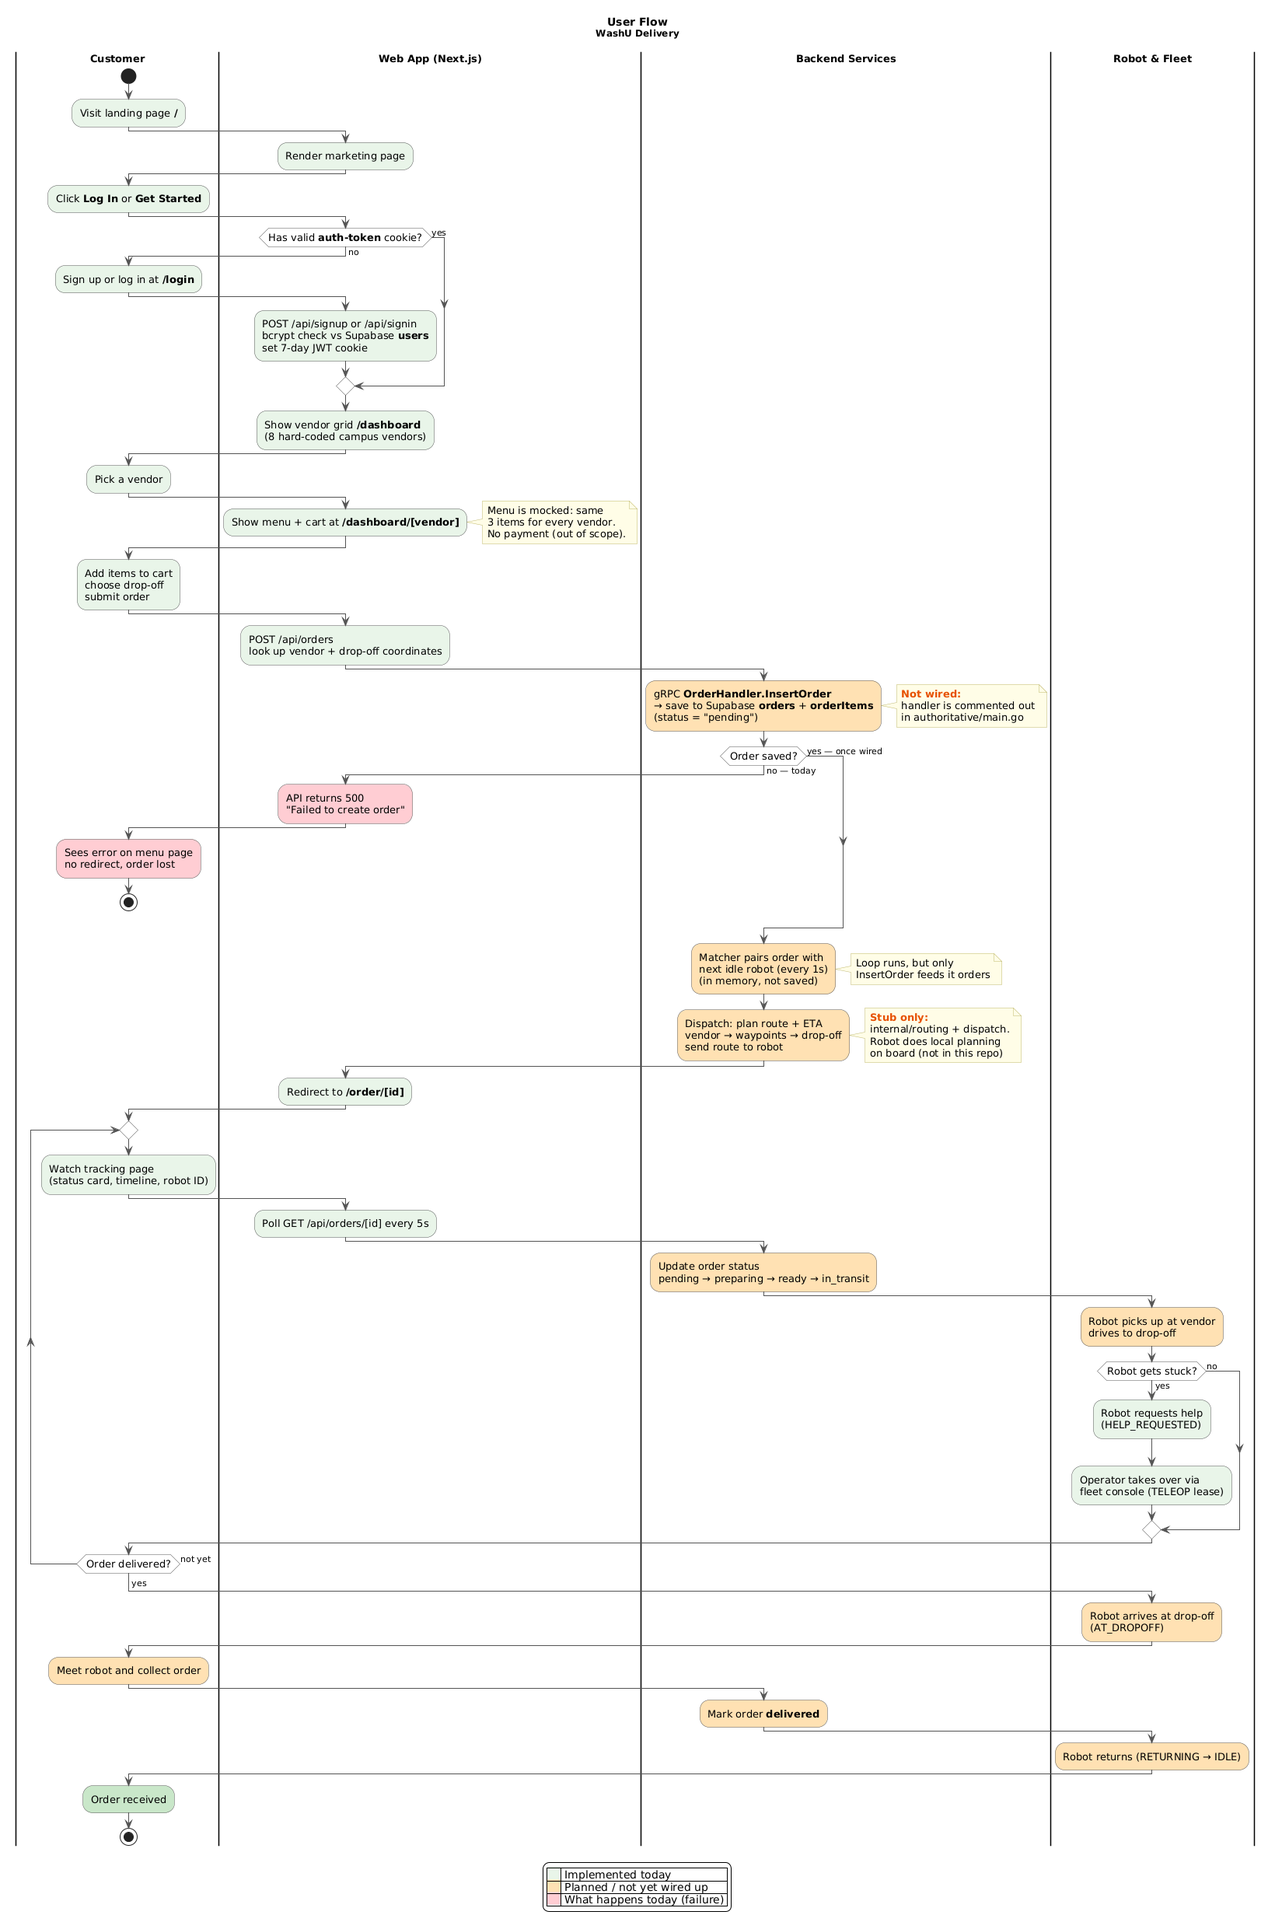
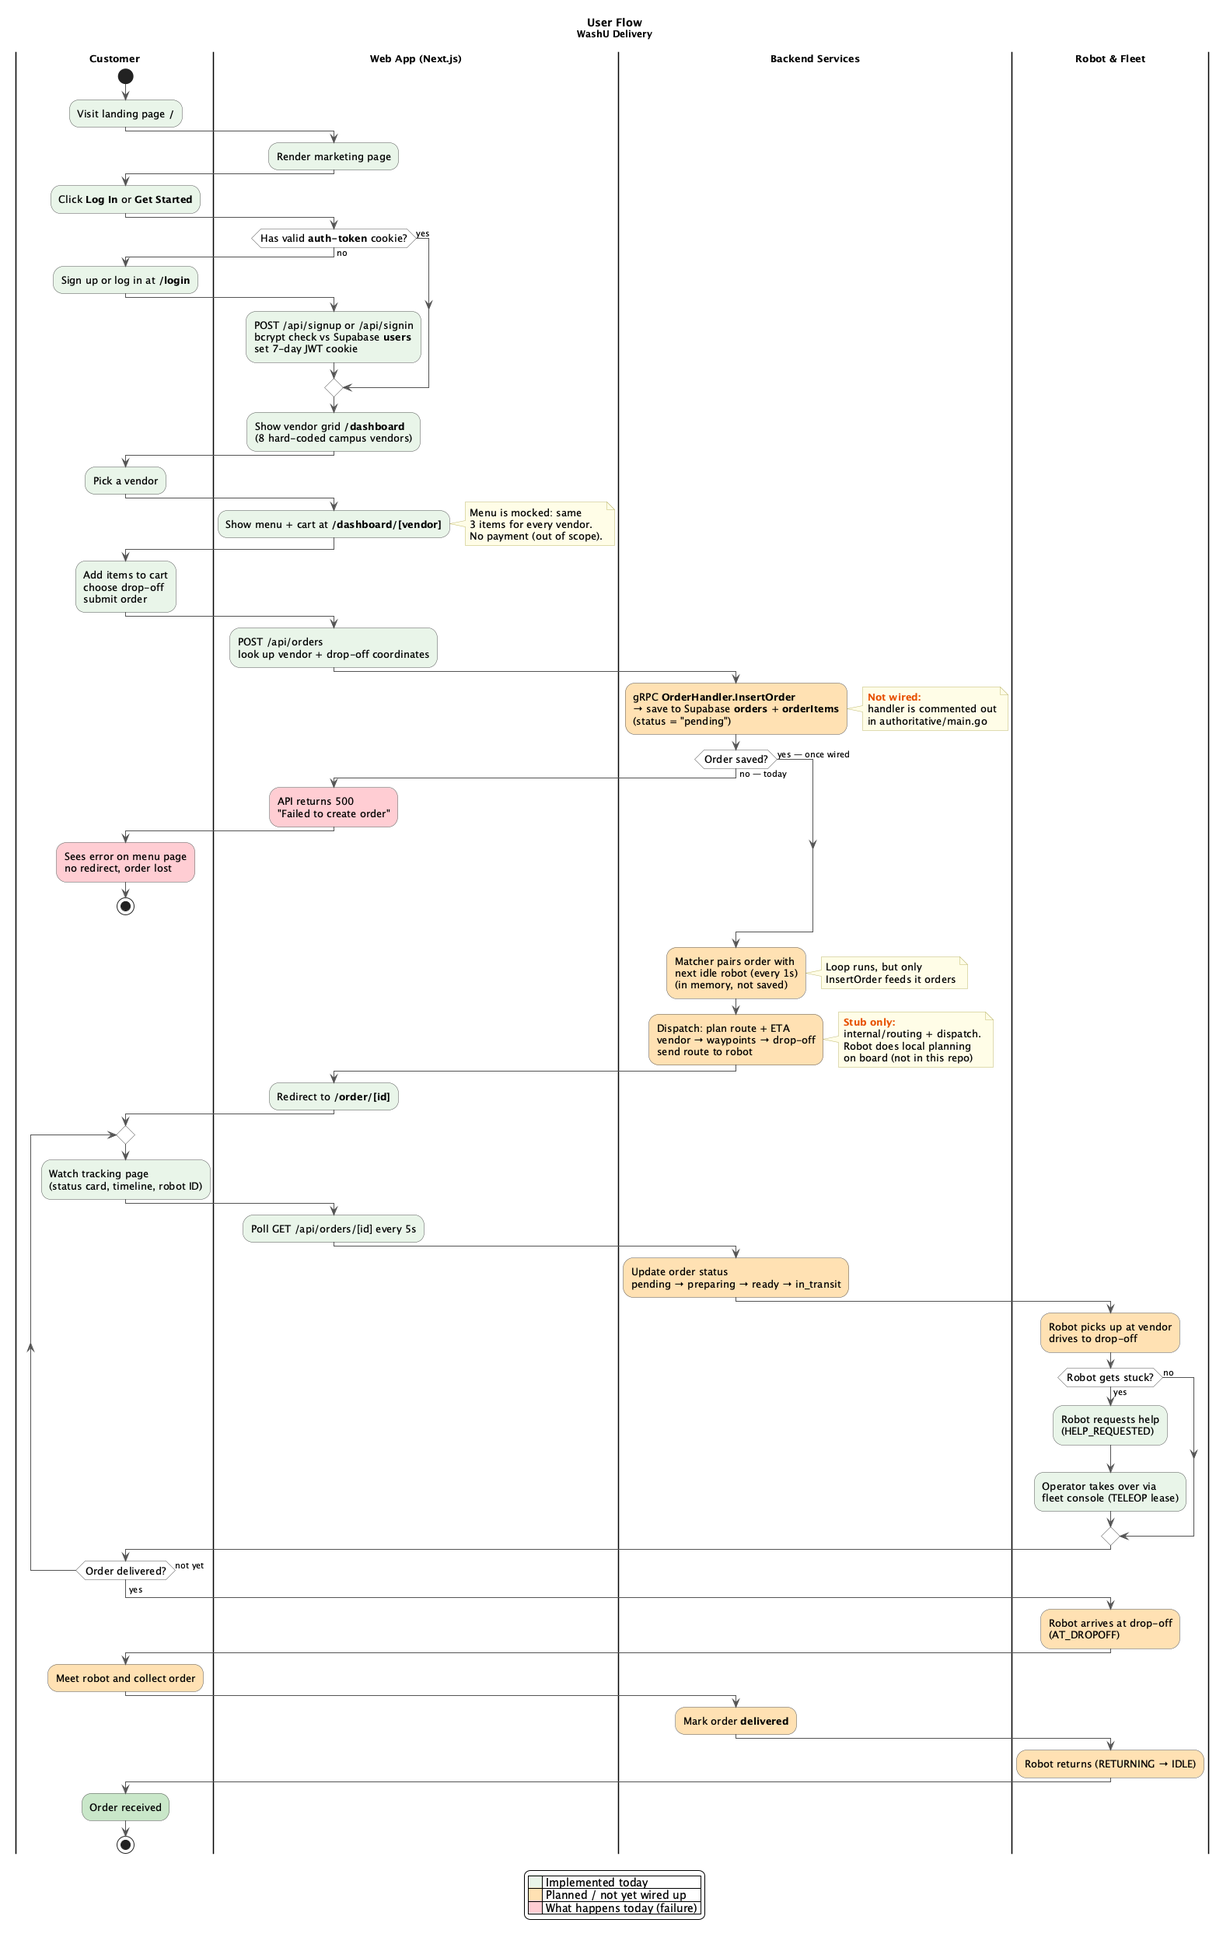
docs: add comprehensive docs

diff --git a/docs/ARCHITECTURE.md b/docs/ARCHITECTURE.md
@@ -1,0 +1,105 @@
+# Architecture
+
+How the pieces of the delivery platform fit together. For what is actually working today,
+see [STATUS.md](STATUS.md). This page describes the design and points out where the code
+doesn't match it yet.
+
+## System overview
+
+![System architecture](diagrams/system-architecture.png)
+
+Source: [diagrams/system-architecture.puml](diagrams/system-architecture.puml).
+Re-render after editing a diagram with `plantuml -tpng docs/diagrams/*.puml`.
+
+## The order, end to end
+
+![Customer user flow](diagrams/customer-order-user-flow.png)
+
+Source: [diagrams/customer-order-user-flow.puml](diagrams/customer-order-user-flow.puml).
+Green steps are implemented, orange are planned, red is what happens today when an order is
+submitted.
+
+In words:
+
+1. The customer logs in on the web app and picks a vendor and a drop-off point.
+2. The web app's `POST /api/orders` route looks up the vendor and drop-off in Supabase and
+   calls `OrderHandler.InsertOrder` on **authoritative** over gRPC.
+3. Authoritative saves the order and queues it in the **matcher**, which pairs the oldest
+   order with the next idle robot once a second.
+4. *(Planned)* Dispatch computes a route (A* over a campus graph, Linear DSC-32/33/37) and
+   sends it to the robot. The robot does its own local navigation onboard
+   ([delivery-robo](https://github.com/WUSTL-Delivery/delivery-robo)).
+5. The customer's tracking page polls `GET /api/orders/[id]` every 5 s.
+6. If a robot gets stuck it raises a help request on **fleet-server**, and an operator takes
+   over through the fleet console (a teleop *lease*).
+7. *(Planned)* The robot reaches the drop-off, the customer collects the order, and the order
+   is marked `delivered`.
+
+## Services
+
+| Service | Code | Listens on (local) | Role |
+|---------|------|--------------------|------|
+| web | `apps/client/web` | 3000 | Next.js customer site and the `/api/*` routes. The only thing the browser talks to. |
+| authoritative | `apps/authoritative` | 50051 (gRPC), 8080 (WS) | Order service, order-to-robot matcher, legacy robot WebSocket hub. |
+| command | `apps/command` | 8082/tcp, 8081/udp | Generic TCP/UDP relay for real-time messages. No dispatch logic yet. |
+| fleet-server | external image `ghcr.io/wustl-delivery/fleet-server` | 8090 | Robot connectivity, presence, telemetry and the operator intervention queue and console. From [fleet-platform](https://github.com/WUSTL-Delivery/robo-fleet-platform). |
+| fleet-bridge | `apps/fleet-bridge` | none (client only) | Subscribes to fleet-server and republishes events to Kafka. One direction only. |
+| kafka + kafka-ui | `deployments/docker-compose.yml` | 9092, 8085 (UI) | Event bus for robot events. |
+| Supabase | hosted | n/a | Postgres database shared by web and authoritative. |
+
+Full port table and production setup: [deployments/README.md](../deployments/README.md).
+
+## How the services talk
+
+| From → To | Protocol | Contract |
+|-----------|----------|----------|
+| Browser → web | HTTPS, JSON | `app/api/*/route.ts` |
+| web → authoritative | gRPC | `apps/authoritative/proto/order_service.proto` (`OrderHandler`); client in `apps/client/web/lib/grpc-client.ts` |
+| web → Supabase | supabase-js with the secret key, server-side only | `apps/client/web/components/supabase.ts` |
+| authoritative → Supabase | supabase-go | `apps/authoritative/pkg/db.go` |
+| Robot ↔ authoritative | WebSocket `/ws` on :8080 | Robot sends `{type:"update", payload:{robot_id, status}}`; hub replies `{robot_id, order_id}` on a match. `internal/wsockets/` |
+| Robot ↔ fleet-server | WebSocket `/ws` | fleet-platform protocol; see `fleet-platform/docs/INTEGRATION.md` |
+| fleet-bridge → Kafka | Kafka topics `robot-update`, `robot-telemetry`, `robot-ops` | Message shapes in [apps/fleet-bridge/README.md](../apps/fleet-bridge/README.md) |
+
+The robot currently has **two** connections: the legacy hub (which the matcher uses) and
+fleet-server (presence and operator help). The plan is to move dispatch onto the
+fleet-platform SDK and retire the hub (Linear DSC-28).
+
+## Data (Supabase tables)
+
+| Table | Used by | Holds |
+|-------|---------|-------|
+| `users` | web (`/api/signup`, `/api/signin`) | Accounts with bcrypt password hashes |
+| `vendors` | web, authoritative | Campus vendors |
+| `coordinates` | web, authoritative | Named points: type 1 = vendor, 2 = drop-off, 3 = waypoint (`pkg/db.go`) |
+| `orders` | web, authoritative | `userId`, `vendorId`, `status`, `dropOffLocation`, `robotId` |
+| `orderItems` | web, authoritative | Line items per order: name, quantity, price |
+| `robots` | authoritative (`pkg/db.go`) | Robot records |
+
+`orders.status` is a free-form string, not an enum. The client sends `pending`, and the
+tracking page knows `pending`, `preparing`, `ready`, `in_transit`, `delivered` and
+`cancelled`.
+
+## Auth
+
+Auth is custom and doesn't use Supabase Auth. `/api/signin` checks the bcrypt hash in `users`
+and sets a 7-day JWT in an httpOnly `auth-token` cookie, signed with `JWT_SECRET`.
+`apps/client/web/proxy.ts` (the Next 16 version of middleware) protects `/dashboard`,
+`/profile` and `/settings`. The order APIs and `/order/[id]` aren't protected yet.
+
+## Robot lifecycle (design)
+
+The robot states in `apps/authoritative/internal/state/model.go` are UNKNOWN, IDLE, ASSIGNED,
+MOVING_TO_PICKUP, AT_PICKUP, MOVING_TO_DROPOFF, AT_DROPOFF, RETURNING, CHARGING, OFFLINE,
+ERROR and MAINTENANCE. The transitions are in [tdd.pdf](tdd.pdf), Appendix A. The state
+manager isn't started by `main` yet.
+
+fleet-server separately tracks AUTONOMOUS, HELP_REQUESTED and TELEOP for operator
+intervention.
+
+## Further reading
+
+- [tdd.pdf](tdd.pdf) / `tdd.tex`: the original technical design. Its goals and use cases
+  still hold; the API, data and failure sections are incomplete.
+- [deployments/README.md](../deployments/README.md): running and deploying, fleet-server
+  enrollment keys and `fleetctl`.

diff --git a/README.md b/README.md
@@ -4,13 +4,36 @@
 
 ---
 
-This monorepo will hold our main components being our fullstack, authserver, and command server platforms
+Campus food delivery by robot. A student orders from a campus vendor on the website, a
+robot is matched to the order, picks it up, and drives it to a drop-off point on campus. This repo holds the web app, the backend that matches orders to robots, and the
+glue to the robot fleet. The robot's onboard software lives in
+[delivery-robo](https://github.com/WUSTL-Delivery/delivery-robo).
 
-More work to come :)
+**New?** Read this page, then [docs/ARCHITECTURE.md](docs/ARCHITECTURE.md) (how the
+pieces fit) and [docs/STATUS.md](docs/STATUS.md) (what works today and what doesn't).
+
+## How it fits together
+
+![System architecture](docs/diagrams/system-architecture.png)
+
+Source: [docs/diagrams/system-architecture.puml](docs/diagrams/system-architecture.puml).
+
+Details, protocols and data model: [docs/ARCHITECTURE.md](docs/ARCHITECTURE.md).
+
+## Apps
+
+| App | Language | What it does | Docs |
+|-----|----------|--------------|------|
+| `apps/client/web` | Next.js 16 / TS | Customer site: login, vendors, cart, order tracking, plus the `/api/*` routes | [README](apps/client/web/README.md) |
+| `apps/authoritative` | Go | gRPC order service, order-to-robot matcher, legacy robot WebSocket hub | [README](apps/authoritative/README.md) |
+| `apps/command` | Go | TCP/UDP relay for real-time messages between robots and clients | [README](apps/command/README.md) |
+| `apps/fleet-bridge` | Node / TS | Forwards fleet-server events to Kafka topics | [README](apps/fleet-bridge/README.md) |
+| `apps/client/mobile` | — | Not started | [README](apps/client/mobile/README.md) |
+| `fleet-server` | external image | Robot connectivity + operator console, from [fleet-platform](https://github.com/WUSTL-Delivery/robo-fleet-platform) | [deployments](deployments/README.md#fleet-platform) |
 
 ## Running locally
 
-Prereqs: Docker Desktop (with `docker compose` v2). Go 1.25+ and Node 22+ only if you want to run apps outside Docker.
+Prereqs: Docker Desktop (with `docker compose` v2). Go 1.26+ (`apps/authoritative/go.mod`) and Node 22+ only if you want to run apps outside Docker.
 
 ```bash
 # 1. Configure secrets (Supabase URL/keys + a JWT secret)
@@ -49,10 +72,27 @@ cd apps/client/web && npm install && npm run dev
 ## Fleet platform
 
 Robot connectivity, presence, and the operator intervention queue come from
-[fleet-platform](https://github.com/jaximus808/robo-fleet-platform), consumed as a
+[fleet-platform](https://github.com/WUSTL-Delivery/robo-fleet-platform), consumed as a
 prebuilt `fleet-server` image pinned in `deployments/docker-compose.yml`.
 `apps/fleet-bridge` is the club's first client on it: it forwards platform events to
 Kafka so existing consumers keep working. Integration guide:
 `fleet-platform/docs/INTEGRATION.md`. Operating it here: `deployments/README.md`.
 
 See `deployments/README.md` for the full port table and the production/GCP deploy flow.
+
+## Where to start contributing
+
+1. Get the stack running locally (above).
+2. Skim [docs/STATUS.md](docs/STATUS.md): every gap listed there links to the code and,
+   where one exists, the Linear issue.
+3. Pick up work on Linear. **DSC** is this repo (web + backend); **ROB** is the robot itself.
+4. Read [docs/CONTRIBUTING.md](docs/CONTRIBUTING.md) for commit style (Conventional Commits)
+   and who to ask.
+
+## More docs
+
+- [docs/ARCHITECTURE.md](docs/ARCHITECTURE.md): services, protocols, data, order lifecycle
+- [docs/STATUS.md](docs/STATUS.md): implemented vs. planned
+- [docs/diagrams/](docs/diagrams/): architecture and customer user-flow diagrams (PlantUML source + PNG; re-render with `plantuml -tpng docs/diagrams/*.puml`)
+- [deployments/README.md](deployments/README.md): ports, production deploy, fleet-server ops
+- [docs/tdd.pdf](docs/tdd.pdf): original technical design doc (partly out of date; see STATUS.md)

diff --git a/docs/STATUS.md b/docs/STATUS.md
@@ -1,0 +1,45 @@
+# Status: what works and what doesn't
+
+_Last verified against `main`: 2026-10-09. When you fix something on this list, update this page in the same PR._
+
+The customer can sign up, browse vendors and build a cart. **Placing an order currently
+fails**, and everything after that (matching, dispatch, delivery) isn't connected yet. Read
+this before assuming a feature works. Each gap below is also a good first task.
+
+## Works today
+
+| Area | Where |
+|------|-------|
+| Landing page, sign up / log in (bcrypt + 7-day JWT cookie) | `apps/client/web/app/{page.tsx,login,api/signup,api/signin}` |
+| Route protection for `/dashboard` | `apps/client/web/proxy.ts` |
+| Vendor grid (8 hard-coded vendors) | `apps/client/web/app/dashboard/page.tsx` |
+| Menu + cart + drop-off picker | `apps/client/web/app/dashboard/[vendor]/page.tsx` |
+| Order tracking page polling every 5 s | `apps/client/web/app/order/[id]/page.tsx`, `app/api/orders/[id]` |
+| Order-to-robot matcher loop (with tests) | `apps/authoritative/internal/matcher/` |
+| Legacy robot WebSocket hub on :8080 | `apps/authoritative/internal/wsockets/` |
+| fleet-server: robot presence, help requests, operator teleop | external image, see [deployments/README.md](../deployments/README.md#fleet-platform) |
+| fleet-bridge: fleet events → Kafka | `apps/fleet-bridge/` |
+| Local stack + production deploy to GCE | `scripts/rebuild.sh`, `.github/workflows/deploy.yml` |
+
+## Broken or not wired up
+
+| Gap | Details | Where | Linear |
+|-----|---------|-------|--------|
+| **Orders can't be created** | `InsertOrder` is inside a `/* ... */` block, so gRPC returns Unimplemented and `POST /api/orders` returns 500. The customer sees "Failed to create order". | `apps/authoritative/cmd/authoritative/main.go` | DSC-31 |
+| Matcher never gets orders | `SubmitOrder` is only called from the disabled `InsertOrder`. | `internal/matcher/engine.go` | DSC-31 |
+| Matches aren't saved | A match is sent to the robot over the hub but never written to `orders.robotId`. | `internal/wsockets/wsocket.go` | |
+| Hub stops on unknown robot | `Hub.Run` does `return` (not `continue`) when a matched robot has no client, which ends the loop. | `internal/wsockets/wsocket.go` (~line 92) | |
+| Order status never changes | `db.UpdateOrderStatus` / `db.AssignOrderToRobot` exist but nothing calls them. | `apps/authoritative/pkg/db.go` | |
+| Kafka events not consumed | fleet-bridge publishes `robot-update`, `robot-telemetry`, `robot-ops`, but `NewRobotSubscriber` is never called and `RobotAssigned` returns "still workin on". | `internal/events/` | DSC-15 |
+| Dispatch / routing | Stub files only. A* pathing and the campus graph are in progress separately. | `internal/dispatch/`, `internal/routing/` | DSC-32, 33, 37, 28 |
+| Robot state manager + `RobotService` gRPC | Implemented but never started from `main`. | `internal/state/`, `internal/grpc/server.go` | |
+| Delivery confirmation | Nothing sets `delivered`, and there's no pickup step (PIN, QR or button). | none | |
+| Cancel order | `DeleteOrder` is in the proto but not implemented, and there's no UI. | `proto/order_service.proto` | |
+| Order APIs unauthenticated | `/api/orders`, `/api/orders/[id]` and `/order/[id]` skip auth; signed-out orders use `userId = "guest-user"`. | `apps/client/web/app/api/orders/` | DSC-9 |
+| Mock menu | Every vendor shows the same 3 items. | `app/dashboard/[vendor]/page.tsx` | |
+| Command server dispatch | Relays TCP/UDP messages but has no dispatch logic. | `apps/command/` | |
+| Mobile app | Not started. | `apps/client/mobile/` | |
+
+## Out of scope (by design)
+
+- Payment. Prices are display only ([tdd.pdf](tdd.pdf)).

diff --git a/apps/client/web/README.md b/apps/client/web/README.md
@@ -1,36 +1,51 @@
-This is a [Next.js](https://nextjs.org) project bootstrapped with [`create-next-app`](https://nextjs.org/docs/app/api-reference/cli/create-next-app).
+# Web Client
 
-## Getting Started
+The customer-facing site (Next.js 16, App Router, Tailwind). It also hosts the `/api/*`
+routes, which are the only backend the browser talks to. They read Supabase directly and
+call the authoritative server over gRPC.
 
-First, run the development server:
+## Run
 
 ```bash
+# Easiest: the whole stack from the repo root
+./scripts/rebuild.sh            # then open http://localhost:3000
+
+# Or just the web app (needs authoritative running for orders)
+cd apps/client/web
+npm install
 npm run dev
-# or
-yarn dev
-# or
-pnpm dev
-# or
-bun dev
+npm run lint
 ```
 
-Open [http://localhost:3000](http://localhost:3000) with your browser to see the result.
+When running natively, create `apps/client/web/.env.local`:
 
-You can start editing the page by modifying `app/page.tsx`. The page auto-updates as you edit the file.
+| Variable | Notes |
+|----------|-------|
+| `NEXT_PUBLIC_SUPABASE_URL` | Same value as `SUPABASE_URL` in `deployments/.env` |
+| `SUPABASE_SECRET_KEY` | Server-side only. Never use it in a client component |
+| `JWT_SECRET` | Signs the `auth-token` cookie |
+| `GRPC_SERVER_URL` | Defaults to `localhost:50051` |
 
-This project uses [`next/font`](https://nextjs.org/docs/app/building-your-application/optimizing/fonts) to automatically optimize and load [Geist](https://vercel.com/font), a new font family for Vercel.
+## Pages and routes
 
-## Learn More
+| Path | What |
+|------|------|
+| `/` | Landing page |
+| `/login` | Sign up / log in (one form, toggles mode) |
+| `/dashboard` | Vendor grid (protected by `proxy.ts`) |
+| `/dashboard/[vendor]` | Menu, cart, drop-off picker, place order |
+| `/order/[id]` | Order tracking, polls every 5 s |
+| `POST /api/signup`, `POST /api/signin`, `POST /api/signout` | Auth; sets/clears the `auth-token` JWT cookie |
+| `POST /api/orders` | Creates an order via gRPC `InsertOrder` (currently fails, see [status](../../../docs/STATUS.md)) |
+| `GET /api/orders/[id]` | Order + items + drop-off, read from Supabase |
 
-To learn more about Next.js, take a look at the following resources:
+## Key files
 
-- [Next.js Documentation](https://nextjs.org/docs) - learn about Next.js features and API.
-- [Learn Next.js](https://nextjs.org/learn) - an interactive Next.js tutorial.
+| Path | What |
+|------|------|
+| `proxy.ts` | Route protection (Next 16's replacement for `middleware.ts`) |
+| `lib/grpc-client.ts`, `proto/` | gRPC client for the authoritative `OrderHandler` |
+| `lib/jwt-secret.ts` | JWT key loading |
+| `components/supabase.ts` | Lazily created server-side Supabase client |
 
-You can check out [the Next.js GitHub repository](https://github.com/vercel/next.js) - your feedback and contributions are welcome!
-
-## Deploy on Vercel
-
-The easiest way to deploy your Next.js app is to use the [Vercel Platform](https://vercel.com/new?utm_medium=default-template&filter=next.js&utm_source=create-next-app&utm_campaign=create-next-app-readme) from the creators of Next.js.
-
-Check out our [Next.js deployment documentation](https://nextjs.org/docs/app/building-your-application/deploying) for more details.
+The full order flow is in [docs/ARCHITECTURE.md](../../../docs/ARCHITECTURE.md).

diff --git a/apps/authoritative/README.md b/apps/authoritative/README.md
@@ -1,0 +1,30 @@
+# Authoritative Server
+
+The Go backend that owns orders. It serves the gRPC `OrderHandler` that the web app calls,
+runs the order-to-robot **matcher**, and hosts the legacy robot WebSocket hub.
+
+> **Status:** `InsertOrder` is currently commented out, so order creation fails. See
+> [docs/STATUS.md](../../docs/STATUS.md).
+
+## Run
+
+```bash
+# From the repo root, which is Docker:
+./scripts/rebuild.sh
+```
+
+## Layout
+
+| Path | What |
+|------|------|
+| `cmd/authoritative/main.go` | Entry point: Supabase client, matcher, WebSocket hub, gRPC server |
+| `proto/` | `order_service.proto` (web → here) and `robot.proto`, plus generated Go |
+| `internal/matcher/` | Min-heap of orders × FIFO of idle robots, pairs one per second |
+| `internal/wsockets/` | Robot WebSocket hub: robots report `online`/`shutdown`, receive `{robot_id, order_id}` |
+| `internal/events/` | Kafka producer/consumer for robot topics (consumer not wired yet) |
+| `internal/state/` | Robot state machine and manager (not started yet) |
+| `internal/grpc/` | `RobotService` gRPC server (not started yet) |
+| `internal/dispatch/`, `internal/routing/` | Stubs for dispatch and route/ETA logic |
+| `pkg/db.go` | Supabase helpers for `orders`, `coordinates`, `robots`, ... |
+
+How this fits with the rest of the system: [docs/ARCHITECTURE.md](../../docs/ARCHITECTURE.md).

diff --git a/apps/command/README.md b/apps/command/README.md
@@ -1,0 +1,26 @@
+# Command Server
+
+A TCP + UDP relay for real-time messages between robots and other clients. Every message a
+client sends is broadcast to the other connected clients. It doesn't contain any dispatch or
+routing logic yet.
+
+## Run
+
+```bash
+cd apps/command
+go run . -mode=server     # TCP :8080 + UDP :8081 (what Docker runs; host ports 8082/tcp, 8081/udp)
+go run . -mode=client     # simulated robot/person clients against a running server
+go run .                  # both, as a demo
+./test_network.sh         # interactive menu of demos
+```
+
+## Layout
+
+| File | What |
+|------|------|
+| `main.go`, `network_demo.go` | Entry point and `-mode` handling |
+| `tcp_server.go`, `udp_server.go` | Servers and broadcast |
+| `tcp_client.go`, `udp_client.go`, `test_clients.go` | Example and test clients |
+| `demo_standalone.go`, `demos/`, `examples.go` | Demos |
+
+Where it fits: [docs/ARCHITECTURE.md](../../docs/ARCHITECTURE.md).

diff --git a/apps/client/mobile/README.md b/apps/client/mobile/README.md
@@ -1,0 +1,3 @@
+# Mobile
+
+Not started. The customer experience is the web app in [`apps/client/web`](../web/README.md).
